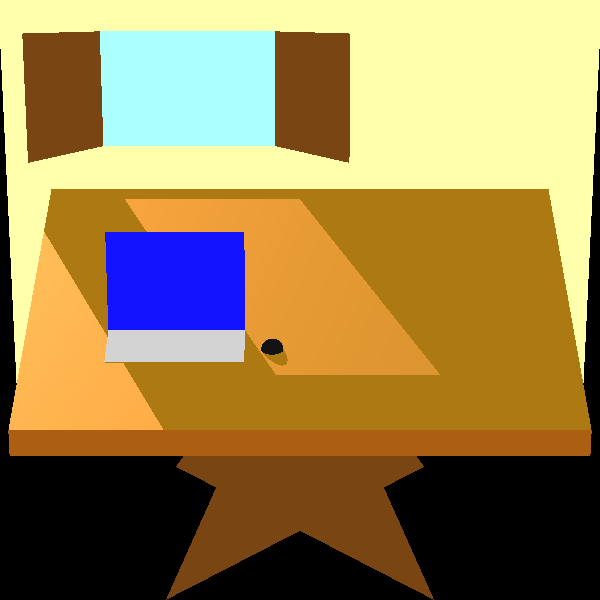
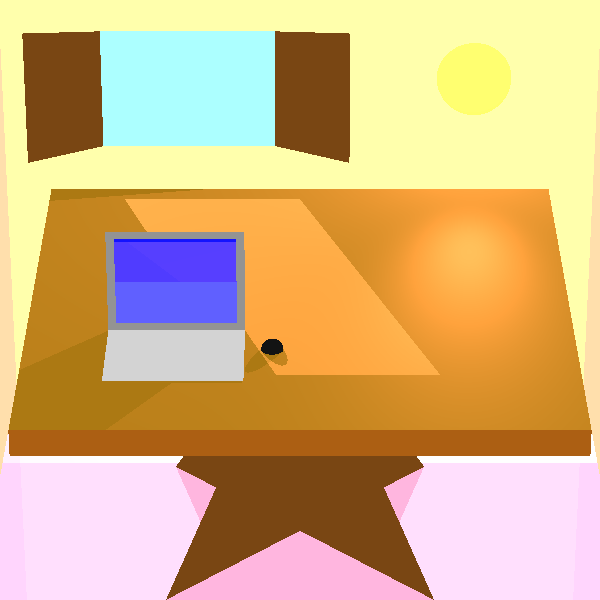
exercise 7 picture - end

diff --git a/src/renderer/BasicRayTracer.java b/src/renderer/BasicRayTracer.java
@@ -46,8 +46,9 @@ public class BasicRayTracer extends RayTracerBase {
 
     /**
      * calculating the color where the ray intersecting
+     *
      * @param geoPoint first intersection point
-     * @param ray intersected ray
+     * @param ray      intersected ray
      * @return color of the point
      */
     private Color calcColor(GeoPoint geoPoint, Ray ray) {
@@ -57,10 +58,11 @@ public class BasicRayTracer extends RayTracerBase {
 
     /**
      * calculating the color where the ray intersecting- recursion
+     *
      * @param intersection intersection point
-     * @param ray intersected ray
-     * @param level current recursion level
-     * @param k current attention coefficient of the recursion
+     * @param ray          intersected ray
+     * @param level        current recursion level
+     * @param k            current attention coefficient of the recursion
      * @return color of the point
      */
     private Color calcColor(GeoPoint intersection, Ray ray, int level, double k) {
@@ -69,6 +71,15 @@ public class BasicRayTracer extends RayTracerBase {
         return 1 == level ? color : color.add(calcGlobalEffects(intersection, ray.getDir(), level, k));
     }
 
+    /**
+     * calculates the global effects
+     *
+     * @param geoPoint intersection point
+     * @param v        vector from the camera to the point
+     * @param level    current recursion level
+     * @param k        current attention coefficient of the recursion
+     * @return global color of the point
+     */
     private Color calcGlobalEffects(GeoPoint geoPoint, Vector v, int level, double k) {
         Color color = Color.BLACK;
         Vector n = geoPoint.geometry.getNormal(geoPoint.point);
@@ -81,24 +92,54 @@ public class BasicRayTracer extends RayTracerBase {
             color = color.add(
                     calcGlobalEffect(constructRefractedRay(geoPoint.point, v, n), level, material.kT, kkt));
         return color;
-
     }
 
-    private Ray constructRefractedRay(Point3D point, Vector v, Vector n) {
-        return new Ray(point, v, n);
-    }
-
-    private Ray constructReflectedRay(Point3D point, Vector v, Vector n) {
-        Vector r = v.subtract(n.scale(2 * v.dotProduct(n)));
-        return new Ray(point, r, n);
-    }
-
+    /**
+     * calculates the global effects- recursion
+     *
+     * @param ray   ray from the intersection point (reflection/ transparency ray)
+     * @param level current recursion level
+     * @param kx    original attention coefficient of the recursion
+     * @param kkx   current attention coefficient of the recursion
+     * @return global color of the point
+     */
     private Color calcGlobalEffect(Ray ray, int level, double kx, double kkx) {
         GeoPoint gp = findClosestIntersection(ray);
         return (gp == null ? _scene.backgroundcolor : calcColor(gp, ray, level - 1, kkx)
         ).scale(kx);
     }
 
+    /**
+     * build a refracted ray
+     *
+     * @param point target point
+     * @param v     vector from the camera
+     * @param n     normal in the point
+     * @return the refracted ray
+     */
+    private Ray constructRefractedRay(Point3D point, Vector v, Vector n) {
+        return new Ray(point, v, n);
+    }
+
+    /**
+     * build a reflected ray
+     *
+     * @param point target point
+     * @param v     vector from the camera
+     * @param n     normal in the point
+     * @return the reflected ray
+     */
+    private Ray constructReflectedRay(Point3D point, Vector v, Vector n) {
+        Vector r = v.subtract(n.scale(2 * v.dotProduct(n)));
+        return new Ray(point, r, n);
+    }
+
+    /**
+     * finds the closest intersection point to the ray head
+     *
+     * @param ray the intersected ray
+     * @return closest intersection point
+     */
     private GeoPoint findClosestIntersection(Ray ray) {
         List<GeoPoint> intersections = _scene.geometries.findGeoIntersections(ray);
         if (intersections == null)
@@ -142,16 +183,25 @@ public class BasicRayTracer extends RayTracerBase {
         return color;
     }
 
-    private double transparency(LightSource light, Vector l, Vector n, GeoPoint geopoint) {
+    /**
+     * checks if there is shadow in the point
+     *
+     * @param light    light source
+     * @param l        direction vector from the light source to the point
+     * @param n        normal in the point
+     * @param geoPoint the point
+     * @return shadow in the point
+     */
+    private double transparency(LightSource light, Vector l, Vector n, GeoPoint geoPoint) {
         Vector lightDirection = l.scale(-1); // from point to light source
-        Ray lightRay = new Ray(geopoint.point, lightDirection, n);
-        double lightDistance = light.getDistance(geopoint.point);
+        Ray lightRay = new Ray(geoPoint.point, lightDirection, n);
+        double lightDistance = light.getDistance(geoPoint.point);
         var intersections = _scene.geometries.findGeoIntersections(lightRay);
         if (intersections == null)
             return 1.0;
         double ktr = 1.0;
         for (GeoPoint gp : intersections) {
-            if (alignZero(gp.point.distance(geopoint.point) - lightDistance) <= 0) {
+            if (alignZero(gp.point.distance(geoPoint.point) - lightDistance) <= 0) {
                 ktr *= gp.geometry.get_material().kT;
                 if (ktr < MIN_CALC_COLOR_K)
                     return 0.0;

diff --git a/tests/elements/Exercise7.java b/tests/elements/Exercise7.java
@@ -36,10 +36,13 @@ public class Exercise7 {
                         .setEmission(new Color(102, 51, 0)).setMaterial(new Material().setKd(0.5).setKs(0.5).setShininess(30)),
 
                 //computer
-                new Polygon(new Point3D(25, -70, 0.25), new Point3D(25, -20, 0.25), new Point3D(50, -20, 0.25), new Point3D(50, -70, 0.25))
+                new Polygon(new Point3D(25, -70, 0.25), new Point3D(25, -20, 0.25), new Point3D(64.75, -20, 0.25), new Point3D(64.75, -70, 0.25))
                         .setEmission(new Color(java.awt.Color.lightGray)),
                 new Polygon(new Point3D(25, -70, 0.25), new Point3D(25, -70, 40), new Point3D(25, -20, 40), new Point3D(25, -20, 0.25))
-                        .setEmission(new Color(java.awt.Color.blue)),
+                        .setEmission(new Color(128,128,128)),
+                new Polygon(new Point3D(25.01, -67, 3.25), new Point3D(25.01, -67, 37), new Point3D(25.01, -23, 37), new Point3D(25.01, -23, 3.25))
+                        .setEmission(new Color(java.awt.Color.blue)).setMaterial(new Material().setKd(0.5).setKs(0.5).setShininess(35).setkR(0.4)),
+
                 //mouse
                 new Sphere(4, new Point3D(40, -10, 0)).setEmission(new Color(java.awt.Color.black)),
 
@@ -51,8 +54,7 @@ public class Exercise7 {
                 new Polygon(new Point3D(-120, -10, 10), new Point3D(-110, 20, 7), new Point3D(-110, 20, 63), new Point3D(-120, -10, 60))
                         .setEmission(new Color(102, 51, 0)),
 
-
-                //wall
+                //window wall
                 new Polygon(new Point3D(-120, -120, 10), new Point3D(-120, -120, -100), new Point3D(-120, 120, -100), new Point3D(-120, 120, 10))
                         .setEmission(new Color(255, 255, 153)),
                 new Polygon(new Point3D(-120, -120, 10), new Point3D(-120, -80, 10), new Point3D(-120, -80, 80), new Point3D(-120, -120, 80))
@@ -60,11 +62,26 @@ public class Exercise7 {
                 new Polygon(new Point3D(-120, -10, 10), new Point3D(-120, 120, 10), new Point3D(-120, 120, 80), new Point3D(-120, -10, 80))
                         .setEmission(new Color(255, 255, 153)),
                 new Polygon(new Point3D(-120, -80, 60), new Point3D(-120, -80, 80), new Point3D(-120, 120, 80), new Point3D(-120, 120, 60))
-                        .setEmission(new Color(255, 255, 153))
+                        .setEmission(new Color(255, 255, 153)),
+
+                //sides wall
+                new Polygon(new Point3D(120, -120, -100), new Point3D(120, -120, 80), new Point3D(-120, -120, 80), new Point3D(-120, -120, -100))
+                        .setEmission(new Color(255, 204, 153)),
+                new Polygon(new Point3D(120, 120, -100), new Point3D(120, 120, 80), new Point3D(-120, 120, 80), new Point3D(-120, 120, -100))
+                        .setEmission(new Color(255, 204, 153)),
+
+                //floor
+                new Polygon(new Point3D(120, -120, -100), new Point3D(-120, -120, -100), new Point3D(-120, 120, -100), new Point3D(120, 120, -100))
+                        .setEmission(new Color(255, 153, 204)).setMaterial(new Material().setKd(0.5).setKs(0.5).setShininess(60).setkR(0.2)),
+
+                //lamp
+                new Sphere(15,new Point3D(-120,70,40))
+                        .setEmission(new Color(218,165,32)).setMaterial(new Material().setKd(0.2).setKs(0.2).setShininess(35).setkT(0.4))
 
         );
-        scene.lights.add( //
-                new DirectionalLight(new Color(350, 200, 200), new Vector(3, 1, -1)));
+        scene.lights.add(new DirectionalLight(new Color(350, 200, 200), new Vector(3, 1, -1)));
+
+        scene.lights.add(new PointLight(new Color(500,250,250), new Point3D(-119,70,40)).setKl(4E-5).setKq(2E-7));
 
         Render render = new Render() //
                 .setImageWriter(new ImageWriter("exercise7", 600, 600)) //

diff --git a/src/renderer/Render.java b/src/renderer/Render.java
@@ -2,11 +2,8 @@ package renderer;
 
 import elements.Camera;
 import primitives.Color;
-import primitives.Point3D;
 import primitives.Ray;
-import scene.Scene;
 
-import java.util.List;
 import java.util.MissingResourceException;
 
 /**
@@ -15,7 +12,7 @@ import java.util.MissingResourceException;
 public class Render {
 
     /**
-     *creates the image
+     * creates the image
      */
     private ImageWriter _imageWriter;
     /**
@@ -29,6 +26,7 @@ public class Render {
 
     /**
      * setter of the image writer (builder)
+     *
      * @param imageWriter imageWriter
      * @return render
      */
@@ -39,6 +37,7 @@ public class Render {
 
     /**
      * setter of camera (builder)
+     *
      * @param camera camera details
      * @return render
      */
@@ -49,6 +48,7 @@ public class Render {
 
     /**
      * setter of the ray tracer (builder)
+     *
      * @param basicRayTracer the ray tracer
      * @return rebder
      */
@@ -62,11 +62,11 @@ public class Render {
      */
     public void renderImage() {
         //one of the parameters is null
-        if(_imageWriter==null)
+        if (_imageWriter == null)
             throw new MissingResourceException("_imageWriter is null", "Render", "ImageWriter");
-        if(_camera==null)
+        if (_camera == null)
             throw new MissingResourceException("_camera is null", "Render", "Camera");
-        if(_rayTracer==null)
+        if (_rayTracer == null)
             throw new MissingResourceException("_rayTracer is null", "Render", "RayTracerBase");
 
         int nX = _imageWriter.getNx();
@@ -82,11 +82,12 @@ public class Render {
 
     /**
      * creates the grid of the image
-     * @param interval amount of pixels between two lines
+     *
+     * @param interval      amount of pixels between two lines
      * @param intervalColor grid color
      */
     public void printGrid(int interval, Color intervalColor) {
-        if(_imageWriter==null)
+        if (_imageWriter == null)
             throw new MissingResourceException("_imageWriter is null", "Render", "ImageWriter");
 
         int nX = _imageWriter.getNx();
@@ -104,7 +105,7 @@ public class Render {
      * saves the image
      */
     public void writeToImage() {
-        if(_imageWriter==null)
+        if (_imageWriter == null)
             throw new MissingResourceException("_imageWriter is null", "Render", "ImageWriter");
         _imageWriter.writeToImage();
     }

diff --git a/src/renderer/RayTracerBase.java b/src/renderer/RayTracerBase.java
@@ -16,6 +16,7 @@ public abstract class RayTracerBase {
 
     /**
      * constructor with parameter
+     *
      * @param scene shapes scene
      */
     public RayTracerBase(Scene scene) {
@@ -24,6 +25,7 @@ public abstract class RayTracerBase {
 
     /**
      * finds the color of the shape that intersects the ray first
+     *
      * @param ray camera ray
      * @return shape color
      */

diff --git a/src/geometries/Sphere.java b/src/geometries/Sphere.java
@@ -104,5 +104,4 @@ public class Sphere extends Geometry {
 
         return null;
     }
-
 }
